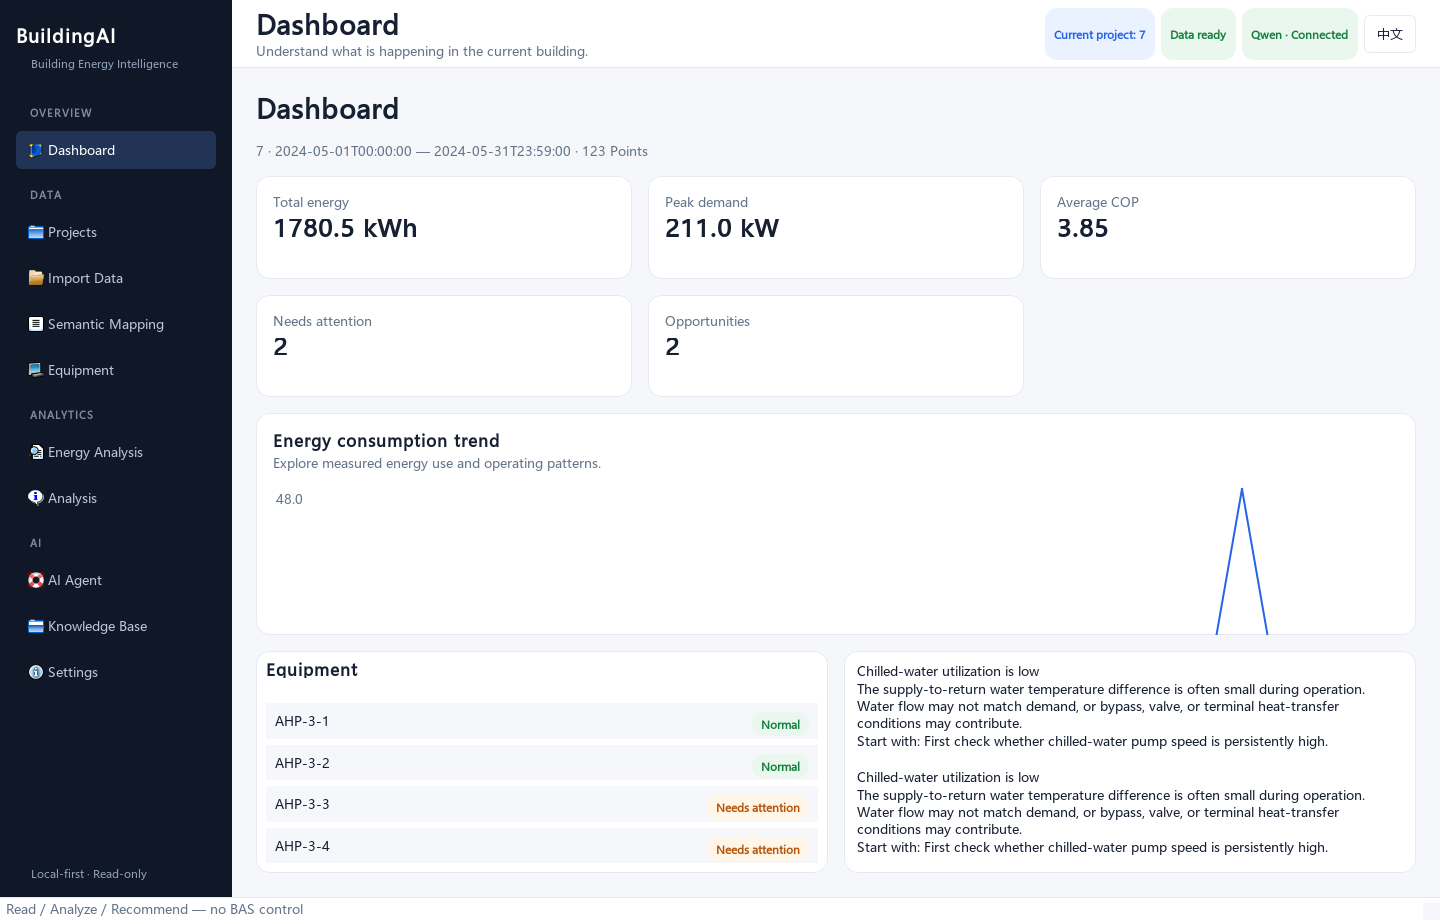
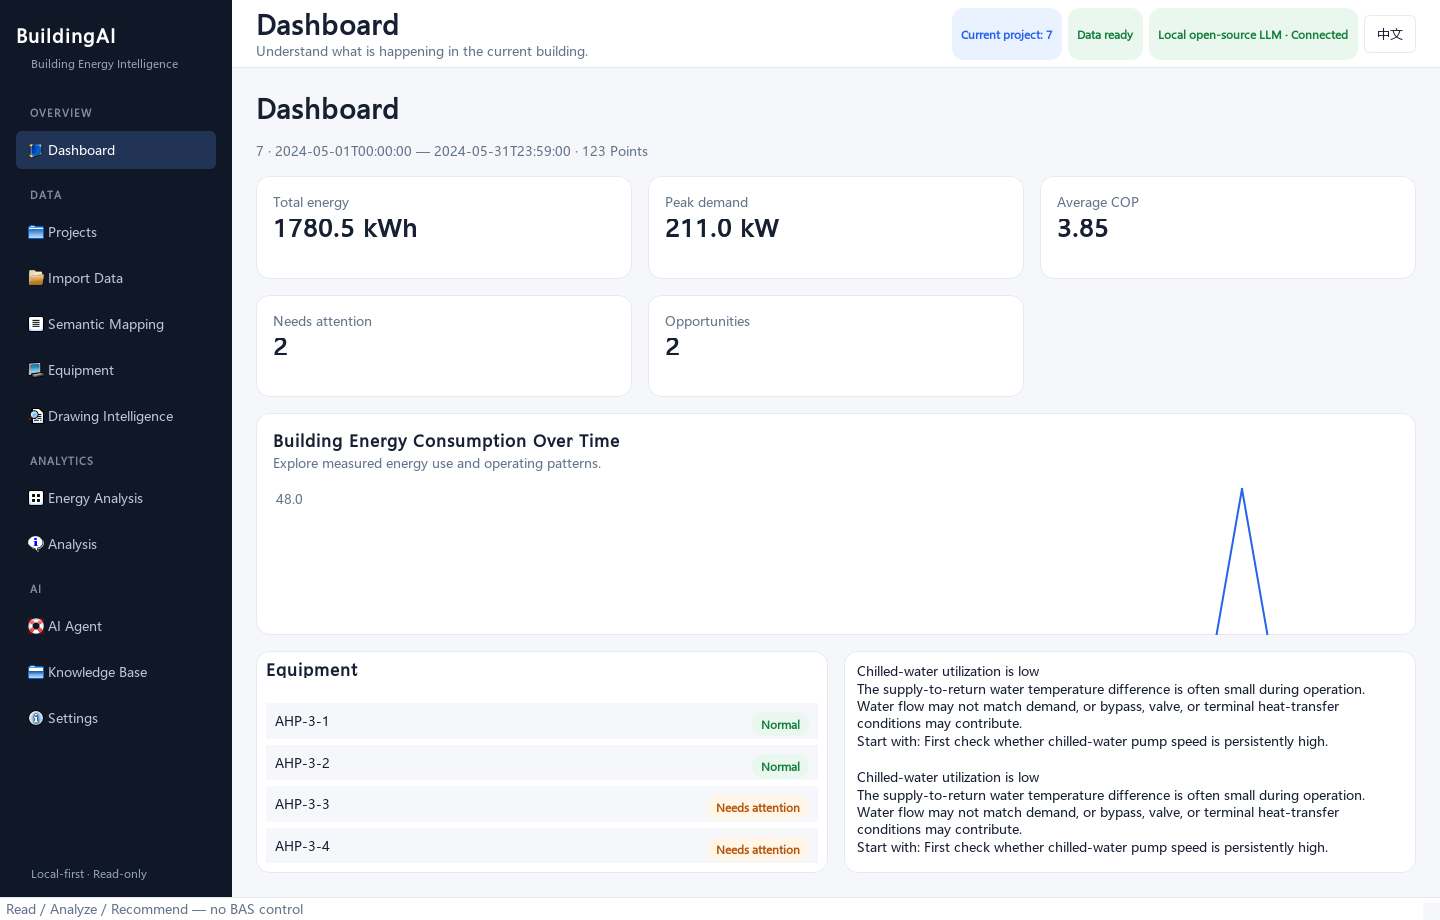
docs: refresh BuildingAI product showcase

diff --git a/README.md b/README.md
@@ -1,74 +1,87 @@
 # BuildingAI
 
-> **Agentic AI Building Energy Intelligence Platform**
+> **Agentic AI for Building Energy Intelligence**
 
-Turn heterogeneous BEMS data into understandable energy insights, equipment diagnostics, and actionable recommendations through Agentic AI.
+Turn heterogeneous BEMS data and building drawings into equipment-aware energy analysis, diagnostics, and actionable recommendations.
 
-面向异构建筑运行数据的智能能源分析与 Agent 应用平台。
+面向建筑运行数据与图纸的多模态智能能源分析与 Agent 应用平台。
 
 [![Python](https://img.shields.io/badge/Python-3.10%2B-3776AB?logo=python&logoColor=white)](https://www.python.org/)
 [![CI](https://github.com/KaedeharaT/hvac-ai-analyzer/actions/workflows/ci.yml/badge.svg)](https://github.com/KaedeharaT/hvac-ai-analyzer/actions/workflows/ci.yml)
 ![PyQt5](https://img.shields.io/badge/Desktop-PyQt5-41CD52)
 ![FastAPI](https://img.shields.io/badge/API-FastAPI-009688?logo=fastapi&logoColor=white)
-![Local LLM](https://img.shields.io/badge/LLM-Local%20open--source-6B4FBB)
+![LLM](https://img.shields.io/badge/LLM-Configurable-6B4FBB)
 ![Agentic AI](https://img.shields.io/badge/AI-Agentic-2563EB)
 ![RAG](https://img.shields.io/badge/Knowledge-RAG-0F766E)
-![Tests](https://img.shields.io/badge/tests-105%20passed-16A34A)
+![Tests](https://img.shields.io/badge/tests-111%20passed-16A34A)
 
-**English | [简体中文](README_zh.md)** · [Architecture](docs/architecture.md) · [Knowledge sources](docs/knowledge_sources.md)
+**English | [简体中文](README_zh.md)** · [Architecture](docs/architecture.md) · [Drawing Intelligence](docs/drawing_intelligence.md) · [Knowledge sources](docs/knowledge_sources.md)
 
 ## What it does
 
-- Understands unfamiliar BEMS / HVAC point names in Chinese, English, and Japanese.
-- Discovers equipment and operating signals, then analyzes energy, power, COP, ΔT, and equipment performance.
-- Turns deterministic findings into clear diagnostics and practical energy-saving next steps.
-- Answers questions with an AI Assistant that uses the selected project's evidence and, when needed, cited engineering knowledge.
-
-![BuildingAI dashboard with a reviewed Project 7](docs/images/dashboard.png)
-
-*A local Project 7 dashboard: measured energy, demand, COP, equipment status, and reviewed operating findings.*
+- Understands unfamiliar Chinese, English, and Japanese BEMS / HVAC point names.
+- Organizes equipment and operating signals into a project-specific equipment context.
+- Calculates only the energy, power, temperature, COP, and ΔT indicators supported by the available data.
+- Presents capability-driven energy analysis with explicit chart scope, axes, units, and legends.
+- Produces HVAC findings from project evidence and deterministic engineering logic, then turns them into practical next steps.
+- Ingests PNG / JPG / JPEG drawings through an optional YOLOv8 adapter, with bounding boxes, human review, and manual equipment association.
+- Answers questions through read-only project tools and a separate, cited multilingual knowledge base.
 
 ## Why it matters
 
 Building energy analysis often starts with a difficult manual task: interpreting hundreds of inconsistent BEMS point names before engineers can tell which equipment matters or what the data means. BuildingAI reduces that setup work by organizing heterogeneous operational data into equipment-aware analysis, then presenting the result as evidence-backed insights that engineers and non-specialists can act on.
 
-It is not a generic chatbot and it has no BAS write path. The project reads, analyzes, explains, and recommends; site teams remain responsible for validation and operational decisions.
+**BuildingAI is not a generic chatbot.** It works with BEMS operational data, drawing evidence, equipment relationships, engineering KPIs, and deterministic findings. The LLM / Agent layer is used for task orchestration, read-only tool use, evidence completion, explanation, and knowledge retrieval. There is no BAS write path: site teams remain responsible for validation and operational decisions.
 
 ## From raw data to action
 
 ```mermaid
 flowchart LR
-    A[BEMS data] --> B[Semantic understanding]
-    B --> C[Project intelligence]
-    X[Drawings] --> Y[Drawing intelligence]
-    Y --> C
-    C --> D[Analytics / diagnosis]
-    D --> E[AI Assistant]
+    A[BEMS CSV / Excel] --> B[Semantic Understanding]
+    D[Building Drawings] --> E[Drawing Intelligence]
+    B --> C[Equipment Context]
+    E --> C
+    C --> F[Energy Analytics]
+    F --> G[Diagnostics]
+    G --> H[Recommendations]
+    H --> I[AI Assistant]
 ```
 
 ## Product experience
 
-### Energy analysis
+### 1. Building Overview
 
-Visualizes available energy consumption, demand, temperature trends, COP, ΔT, and equipment-level performance rather than forcing users to read raw exports.
+The dashboard organizes measured energy, demand, equipment status, and reviewed operational findings into a project-level view that can be read quickly.
+
+![BuildingAI dashboard with a reviewed Project 7](docs/images/dashboard.png)
+
+*Local, anonymized demonstration project.*
+
+### 2. Professional Energy Analysis
+
+Energy Analysis dynamically shows only the indicators the selected project can support: energy, power, temperature, ΔT, COP, typical daily profile, heatmap, and equipment comparison. Each chart exposes its scope, axis meaning, unit, and series legend rather than relying on an unlabeled line.
 
 ![Energy analysis page](docs/images/energy-analysis.png)
 
-### AI Assistant with source-aware answers
+### 3. Evidence-grounded Diagnostics
+
+Findings are derived from actual project data and deterministic engineering logic; general RAG material is used to explain a finding or suggest safe checks, not to invent one. Recommendations remain bounded by the available evidence and require site validation.
+
+### 4. AI Assistant with source-aware answers
 
 The Assistant shows a concise analysis process, separates **Project evidence** from **Reference material**, and makes each cited official source available through the UI. Internal tool identifiers stay inside the technical trace rather than in normal user-facing language.
 
 ![AI Assistant reference-material cards](docs/images/ai-assistant.png)
 
-### Professional knowledge, visible and searchable
+### 5. Professional knowledge, visible and searchable
 
-The built-in knowledge page provides a friendly entry point to multilingual HVAC, operations, and energy-saving guidance—without turning the product into a database console.
+The built-in Knowledge Base is a searchable product page, not a hidden database console: it presents 19 attributed sources, 154 curated chunks, coverage for China / the United States / Japan, and Chinese / English / Japanese retrieval.
 
 ![Knowledge Base page](docs/images/knowledge-base.png)
 
-### Drawing Intelligence
+### 6. Drawing Intelligence
 
-BuildingAI can also ingest architectural / HVAC drawings through an optional YOLO-based vision adapter. Detected objects remain AI predictions until reviewed, and confirmed drawing objects can be linked to project equipment for downstream read-only Agent queries.
+BuildingAI can ingest architectural / HVAC drawings through an optional YOLOv8 vision adapter. Detection boxes remain AI predictions until reviewed; confirmed objects can then be manually linked to project equipment for downstream read-only Agent queries.
 
 ![Synthetic demonstration drawing in Drawing Intelligence](docs/images/drawing-intelligence.png)
 
@@ -263,6 +276,8 @@ It is an engineering platform / research prototype, not a replacement for site c
 
 - [Chinese README](README_zh.md)
 - [Architecture and boundaries](docs/architecture.md)
+- [Local real-usage evaluation](docs/real_usage_evaluation.md)
+- [Drawing Intelligence boundary](docs/drawing_intelligence.md)
 - [Knowledge source registry and licensing](docs/knowledge_sources.md)
 - [Research-to-product mapping](docs/research_to_product.md)
 - [Migration notes](docs/migration.md)

diff --git a/README_zh.md b/README_zh.md
@@ -1,18 +1,24 @@
 # BuildingAI
 
-### 面向建筑能源分析的 Agentic AI 智能平台
+### 面向建筑能源智能的 Agentic AI 平台
 
-将异构 BEMS / HVAC 运行数据自动转化为：**设备识别、能源分析、运行诊断、节能建议和 AI 问答**。
+将异构 BEMS 数据与建筑图纸转化为：**设备关联的能源分析、运行诊断、节能建议和 AI 问答**。
 
-BuildingAI 面向真实建筑运行数据，结合工程规则、LLM、工具调用与知识检索，实现从陌生 BEMS 数据理解到设备级能源诊断和节能建议生成的完整智能分析流程。
+BuildingAI 面向建筑运行数据与图纸，结合工程规则、可配置 LLM、只读工具调用与可追溯知识检索，形成从陌生 BEMS 数据理解到设备级分析和建议的完整流程。
 
 [![CI](https://github.com/KaedeharaT/hvac-ai-analyzer/actions/workflows/ci.yml/badge.svg)](https://github.com/KaedeharaT/hvac-ai-analyzer/actions/workflows/ci.yml)
 
-**简体中文 | [English](README.md)** · [架构说明](docs/architecture.md) · [知识来源](docs/knowledge_sources.md)
+**简体中文 | [English](README.md)** · [架构说明](docs/architecture.md) · [图纸智能识别](docs/drawing_intelligence.md) · [知识来源](docs/knowledge_sources.md)
+
+## 产品体验与核心能力
+
+### 1. 建筑总览
+
+系统将测量能耗、需量、设备状态和已复核的运行发现整理成可快速理解的项目概览。
 
 ![BuildingAI 总览](docs/images/dashboard.png)
 
-*Project 7 总览：系统将测量数据、设备状态和运行发现整理为可理解的分析结果。*
+*本地匿名化演示项目。*
 
 ## 这个项目解决什么问题
 
@@ -28,42 +34,44 @@ BuildingAI 的目标，是让系统自动完成一条可审查的分析路径：
 
 ```mermaid
 flowchart LR
-    A[BEMS 数据] --> B[语义理解]
-    B --> C[项目智能]
-    X[图纸] --> Y[图纸智能识别]
-    Y --> C
-    C --> D[能源分析 / 诊断]
-    D --> E[AI Assistant]
+    A[BEMS CSV / Excel] --> B[语义理解]
+    D[建筑图纸] --> E[图纸智能识别]
+    B --> C[设备上下文]
+    E --> C
+    C --> F[能源分析]
+    F --> G[运行诊断]
+    G --> H[节能建议]
+    H --> I[AI Assistant]
 ```
 
-它不是单纯的聊天机器人。项目数据决定当前建筑**发生了什么**；AI 的作用是组织分析、补充证据、解释结果，并把工程判断转化为用户可以执行的下一步。
+它不是单纯的聊天机器人。BuildingAI 处理 BEMS 运行数据、图纸证据、设备关系、工程 KPI 与确定性 Finding；LLM / Agent 只负责任务组织、只读工具调用、证据补充、解释和知识检索。项目数据决定当前建筑**发生了什么**，且系统没有 BAS 写入或控制路径。
 
-## 核心能力
-
-### 自动理解 BEMS 数据
+### 2. 自动理解 BEMS 数据
 
 自动识别不同项目中不统一的点位名称、单位和设备关系，并映射为标准 HVAC 语义。对不可靠或不明确的点位保留人工复核边界，而不是强行猜测。
 
-### 设备与能源分析
+### 3. 专业能源分析
 
-基于项目中实际可用的数据计算和展示：
+Energy Analysis 仅基于当前项目实际可用的数据动态展示，避免为了“有图”而强行计算。可用能力包括：
 
 - 能耗、功率和负荷趋势
 - 温度、流量与设备运行状态
 - COP、ΔT 等设备性能指标
-- 设备之间的表现对比
+- 典型日曲线、热力图和设备对比
+
+每张图明确显示数据范围、设备范围、横轴、纵轴、单位和多序列图例，严格区分 kW 功率与 kWh 能耗。
 
 ![能源分析](docs/images/energy-analysis.png)
 
-### 运行诊断
+### 4. 基于证据的运行诊断
 
 结合工程规则与当前项目证据识别异常运行状态，例如冷冻水利用效率偏低、设备运行表现需要关注等。诊断结论始终保留数据范围和现场验证边界。
 
-### 节能建议
+### 5. 节能建议
 
 将 HVAC 技术诊断转换成普通用户也能理解的检查与改善建议，例如先检查水泵频率、压差控制、旁通阀或末端换热情况，并注明哪些调整需要现场小步验证。
 
-### AI 助手
+### 6. AI Assistant
 
 用户可以直接询问：
 
@@ -73,11 +81,11 @@ flowchart LR
 >
 > “温差偏低应该怎么改善？”
 
-系统会查询当前项目数据、检查现有证据，必要时补充分析，并结合建筑运行知识库生成有依据的回答。
+系统会查询当前项目数据、检查现有证据，必要时补充分析，并结合建筑运行知识库生成有依据的回答。界面将 **Project Evidence** 与 **Reference Material** 分开呈现，避免将通用资料误作现场事实。
 
 ![AI Assistant 中的真实参考资料卡片](docs/images/ai-assistant.png)
 
-### 图纸智能识别
+### 7. 图纸智能识别
 
 BuildingAI 可通过可选 YOLO 视觉适配器识别建筑 / HVAC 图纸中的构件。检测结果先作为 AI Prediction 保存，人工确认后才能用于设备关联。确认后的图纸对象可以与 BuildingAI Equipment 建立关系，Agent 可以只读查询设备在图纸中的关联信息。
 
@@ -141,7 +149,7 @@ Agent 在发现仅有 KPI 不足以解释原因时，会补充运行与诊断证
 
 ## 可见、可搜索的建筑知识库
 
-BuildingAI 内置一个小而可追溯的知识库，而不是不加筛选地堆积 PDF：
+BuildingAI 内置正式可搜索、可追溯的知识库页面，而不是不加筛选地堆积 PDF：
 
 - **19 个可信知识来源**
 - **154 个精选知识片段**
@@ -265,6 +273,8 @@ python -m uvicorn building_ai.api.app:app --host 127.0.0.1 --port 8000
 ```
 
 当前 Release 验证结果：**110 passed**。
+
+本地完整与不完整项目的实际使用流程、持久化和安全拒答检查，见：[真实使用评估](docs/real_usage_evaluation.md)。
 
 ## 项目背景与边界
 
